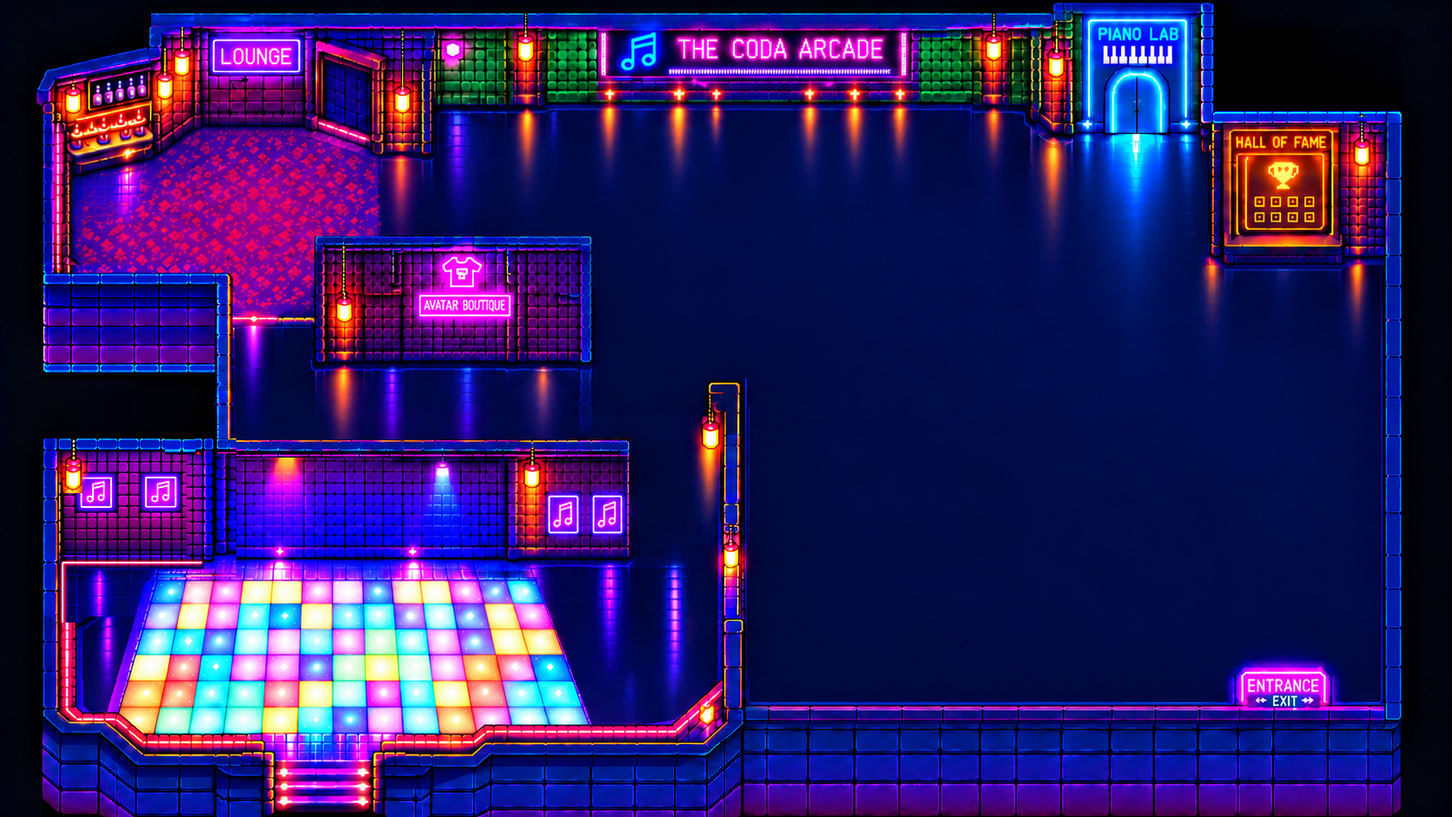
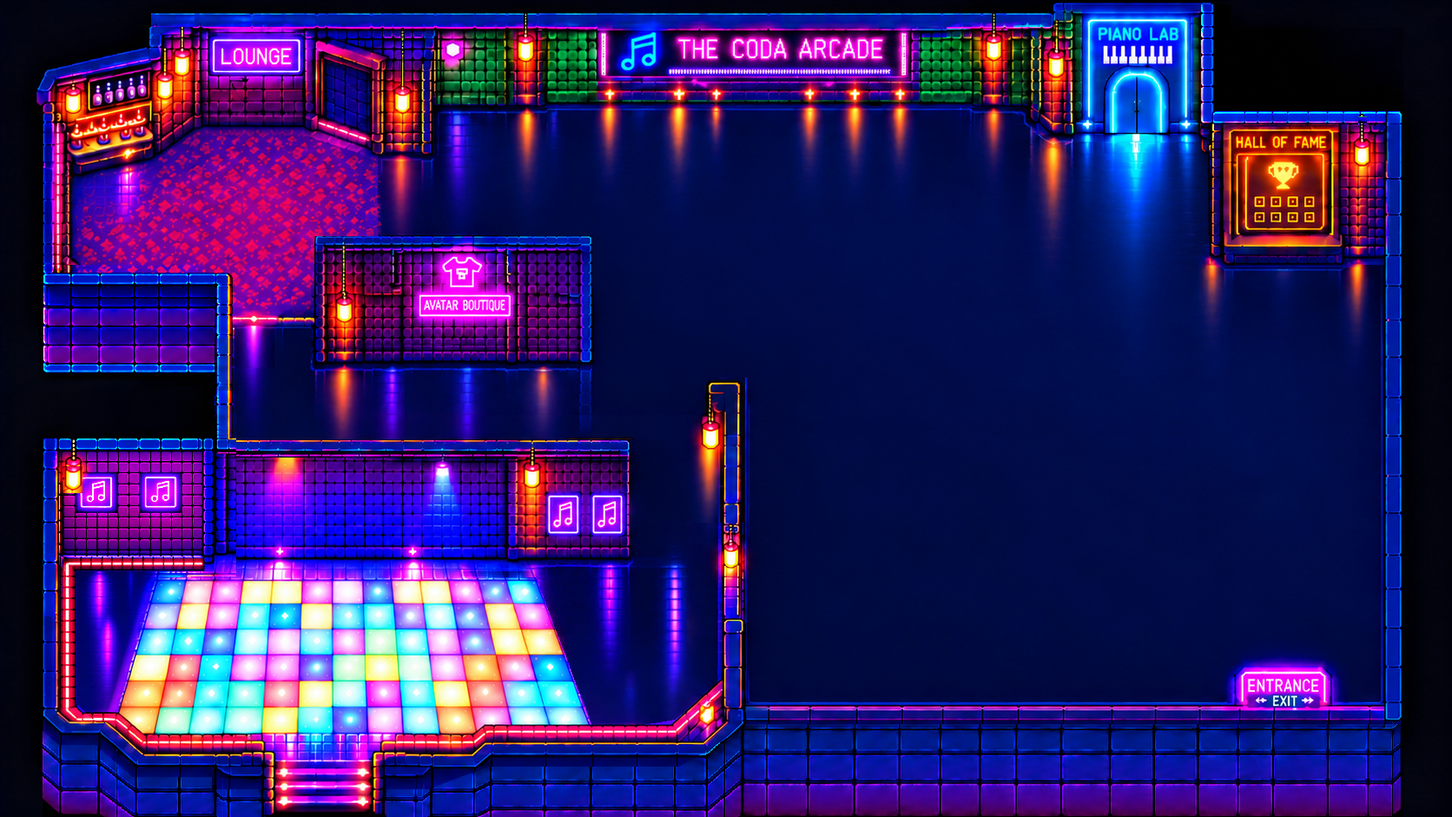
Align northwest wall tiles and match the neon floor border

Changed region(s): [[0.0311, 0.5239, 0.1555, 0.8937]]

diff --git a/world-preview.html b/world-preview.html
@@ -28,7 +28,7 @@
 #assetStudio{position:fixed;left:12px;top:80px;z-index:65;width:min(334px,calc(100vw - 24px));max-height:calc(100dvh - 99px);overflow:auto;background:#171529f5;border:1px solid #eac17d;box-shadow:0 12px 50px #05010de0,0 0 22px #fdac4a24;border-radius:12px;padding:13px;color:#f8efff;font:12px system-ui;backdrop-filter:blur(9px)}
 #assetStudio[hidden]{display:none}#assetStudio .studioHead{display:flex;align-items:center;justify-content:space-between;color:#ffe4a4;font-size:14px;gap:9px;margin-bottom:7px}#assetStudio .studioActions{display:flex;flex-wrap:wrap;gap:5px;margin:7px 0}#assetStudio button{font:inherit;min-height:28px;padding:5px 7px}#assetStudio .studioActions button{flex:1 0 90px}#assetStudio button:disabled{opacity:.36;cursor:not-allowed}#assetStudio hr{border:0;border-top:1px solid #655374;margin:13px 0}#assetStudio .studioField{display:grid;gap:3px;margin:7px 0}#assetStudio .studioField>label{font-weight:650;color:#dccdf3}#assetStudio input:not([type=checkbox]),#assetStudio select{background:#131024;border:1px solid #866e9b;color:#fff;padding:7px;border-radius:5px;width:100%;font:inherit;min-width:0}#assetStudio input[type=checkbox]{accent-color:#f9c880}#assetStudio .studioGrid{display:grid;grid-template-columns:1fr 1fr;gap:8px}#assetStudio .studioTip{color:#c9b9d6;line-height:1.45;font-size:11px;margin:6px 0}#assetStudio #assetList{height:108px;padding:2px}#assetStudio #assetList option{padding:6px}#assetStudio #assetMessage{color:#bbf5e5;min-height:18px;overflow-wrap:anywhere}#assetStudio #assetSelection[hidden]{display:none}#assetStudio .studioCheck{display:inline-flex;align-items:center;gap:6px;margin:5px 11px 5px 0}#assetStudio .studioCollapsible{border:1px solid #655374;border-radius:7px;padding:8px}#assetStudio summary{cursor:pointer;color:#ffe4b1;font-weight:650}#assetToggle{border-color:#eecc7c}#view.asset-editing{cursor:crosshair;touch-action:none}#assetStudio #assetAdd{background:#675022;border-color:#e8b85c}#assetStudio #assetImport{border-color:#80d3ed}#assetStudio #assetExport{border-color:#80d3ed}#assetStudio #assetHelp{background:#271d3c}#assetStudio .studioHot{color:#ffcfa4}body.asset-console-open #layerEditor{display:none!important}@media(max-width:650px){#assetStudio{top:120px;max-height:calc(100dvh - 138px)}}
 /* DJ unlocks */ #panel .jukebox-track-locked{background:#79788612;border-radius:8px;padding:8px}#panel .jukebox-track-locked strong,#panel .jukebox-track-locked small{color:#a6a6b8}#panel .jukebox-track-locked [data-dj-requirement]{color:#e9d29e}
-</style><link rel="stylesheet" href="mobile-controls.css?v=controls-81"><link rel="stylesheet" href="world-mobile.css?v=dialogue-1"><script src="mobile-controls.js?v=joystick-41"></script><script src="finger-follow.js?v=student-29"></script><link rel="stylesheet" href="reward-notifications.css?v=music-30"><script src="reward-notifications.js?v=music-30"></script><link rel="stylesheet" href="developer-console.css?v=rugs-flip-20261031-1"><link rel="stylesheet" href="musician-ui.css?v=dialogue-1"><link rel="stylesheet" href="boutique-ui.css?v=avatar-50"><script src="collision-editor.js?v=mobile-28"></script><script src="world-object-catalog.js?v=floor-61"></script><script src="fishing-entrance.js?v=fishing-31"></script><script src="world-object-runtime.js?v=rugs-flip-20261031-1"></script><script src="world-lighting.js?v=roof-caps-20261031-1"></script><script src="dj-floodlights.js?v=stage-lights-20261031-1"></script><script src="dance-floor.js?v=aligned-dance-20261031-1"></script><script src="floor-stars.js?v=glass-stars-20261031-1"></script><script src="dance-rhythm-engine.js?v=play-97"></script><script src="dance-floor-stage.js?v=dance-95"></script><script src="dj-library.js?v=dj-96"></script><link rel="stylesheet" href="dialogue-editor.css?v=music-30"><script src="dialogue-editor.js?v=music-30"></script><link rel="stylesheet" href="pixel-editor.css?v=pixels-103"><script src="pixel-selection.js?v=smooth-mask-1"></script><script src="layer-selection.js?v=layer-selection-20261030-1"></script><script src="pixel-editor.js?v=smooth-mask-1"></script><script src="world-floor-grid.js?v=flat-75"></script><link rel="stylesheet" href="education-editor.css?v=author-101"><link rel="stylesheet" href="education-visual-editor.css?v=author-101"><script src="education-visual-editor.js?v=author-101"></script><script src="education-editor.js?v=author-101"></script><link rel="stylesheet" href="music-history-editor.css?v=facts-20261029-1"><script src="music-history-editor.js?v=facts-20261029-1"></script><script src="main-counter-palette.js?v=emerald-20261031-1"></script><script src="environment-art.js?v=five-cleanups-20261031-1"></script><script src="world-character-editor.js?v=selected-order-20261030-1"></script><link rel="stylesheet" href="decor-library.css?v=decor-20261030-1"><script src="decor-library.js?v=south-furniture-20261031-1"></script><script src="floor-palette-compat.js?v=glass-fringe-20261031-1"></script><script src="pathway-floor-fill.js?v=boutique-pathway-20261031-1"></script><script src="wall-reflections.js?v=north-walls-20261031-1"></script><script src="developer-console.js?v=reflected-walls-20261031-1"></script><script src="npc-visitors.js?v=visitors-42"></script><script src="npc-behavior.js?v=composers-2"></script><script src="pet-companion.js?v=premium-42"></script><script src="character-renderer.js?v=scholar-1"></script><link rel="stylesheet" href="artwork-editor.css?v=selection-edit-20261030-1"><script src="artwork-editor.js?v=feather-20261030-1"></script><script src="character-artwork-adapter.js?v=pixels-64"></script><script src="world-artwork-tools.js?v=glass-fringe-20261031-1"></script><script src="world-layer-renderer.js?v=rugs-flip-20261031-1"></script><link rel="stylesheet" href="musician-trivia.css?v=music-30"><script src="musician-trivia.js?v=music-30"></script><script src="musician-ui.js?v=dialogue-1"></script><script src="boutique-ui.js?v=classroom-54"></script><link rel="stylesheet" href="notes-shop.css?v=avatar-50"><link rel="stylesheet" href="music-notation.css?v=fishing-31"><script src="music-notation.js?v=fishing-31"></script><link rel="stylesheet" href="education-notation.css?v=education-90"><script src="education-notation.js?v=lessons-93"></script><script src="piano-wall-notation.js?v=learning-48"></script><link rel="stylesheet" href="room-developer-editor.css?v=pixels-64"><script src="room-developer-editor.js?v=rugs-flip-20261031-1"></script><link rel="stylesheet" href="rhythm-fishing.css?v=dialogue-1"><script src="rhythm-fishing-engine.js?v=fishing-47"></script><script src="fishing-progress.js?v=fishing-31"></script><script src="fishing-cave-layout.js?v=cave-32"></script><script src="fishing-cave-effects.js?v=cave-32"></script><script src="fish-shadow-motion.js?v=cave-32"></script><script src="rhythm-beaming.js?v=fishing-34"></script><link rel="stylesheet" href="dance-rhythm-game.css?v=play-97"><script src="dance-rhythm-game.js?v=play-97"></script><script src="dance-floor-world.js?v=play-97"></script><link rel="stylesheet" href="cave-camera.css?v=mobile-36"><script src="cave-camera.js?v=mobile-36"></script><link rel="stylesheet" href="fishing-battle.css?v=fishing-34"><script src="fishing-battle.js?v=mobile-36"></script><script src="fishing-music.js?v=music-42"></script><script src="fishing-boat.js?v=mobile-36"></script><script src="fishing-rhythm-input.js?v=controls-37"></script><link rel="stylesheet" href="fishing-practice.css?v=controls-37"><script src="fishing-practice.js?v=controls-37"></script><script src="rhythm-fishing.js?v=dialogue-1"></script><link rel="stylesheet" href="piano-lab.css?v=dialogue-1"><link rel="stylesheet" href="music-classroom.css?v=learning-48"><script src="notes-shop.js?v=profiles-87"></script><script src="room-fullscreen.js?v=learning-48"></script><script src="piano-melodies.js?v=learning-48"></script><script src="piano-lab.js?v=dialogue-1"></script><link rel="stylesheet" href="classroom-tutorials.css?v=lessons-93"><link rel="stylesheet" href="time-signature-lesson.css?v=lessons-51"><script src="time-signature-lesson.js?v=education-90"></script><link rel="stylesheet" href="classroom-quiz.css?v=learning-48"><script src="classroom-keyboard.js?v=author-101"></script><script src="classroom-quiz-pool.js?v=classroom-97"></script><script src="classroom-quiz.js?v=author-101"></script><script src="final-exam-bank.js?v=exam-86"></script><script src="classroom-curriculum-staff.js?v=keyboard-99"></script><script src="classroom-curriculum-rhythm.js?v=lessons-93"></script><script src="classroom-curriculum-expression.js?v=keyboard-99"></script><script src="classroom-exam-curriculum.js?v=keyboard-99"></script><link rel="stylesheet" href="classroom-exam-study.css?v=lessons-102"><script src="classroom-exam-study.js?v=author-101"></script><script src="classroom-accidentals-lesson.js?v=keyboard-99"></script><script src="classroom-tutorials.js?v=author-101"></script><link rel="stylesheet" href="final-exam.css?v=lessons-93"><script src="classroom-understanding-basics.js?v=classroom-97"></script><script src="classroom-understanding-staff.js?v=classroom-97"></script><script src="classroom-learning-paths-data.js?v=author-101"></script><script src="education-content.js?v=lessons-102"></script><link rel="stylesheet" href="classroom-learning-paths.css?v=lessons-93"><script src="classroom-learning-paths.js?v=author-101"></script><script src="final-exam.js?v=author-101"></script><script src="music-classroom.js?v=dialogue-1"></script><link rel="stylesheet" href="player-progression.css?v=mobile-28"><link rel="stylesheet" href="hall-of-fame.css?v=achievements-89"><link rel="stylesheet" href="arcade-vibes.css?v=vibes-82"><script src="arcade-vibes.js?v=vibes-84"></script><script src="player-progression.js?v=dj-96"></script><script src="achievement-catalog.js?v=dj-96"></script><link rel="stylesheet" href="player-profile.css?v=student-29"><script src="player-profile.js?v=quests-82"></script><script src="hall-of-fame.js?v=achievements-89"></script><script src="musician-missions.js?v=quests-82"></script><script src="song-machine/sound-library.js?v=mobile-28"></script><link rel="stylesheet" href="play-notebook.css?v=play-97"><script src="changelog-data.js?v=console-fullscreen-20261029-1"></script><script src="play-notebook.js?v=play-97"></script><header><b>♫ CODA ARCADE · CONNECTED WORLD / WORLD BUILDER</b><span><a href="classic-arcade.html">← Original arcade</a> &nbsp; <button id="levelBtn" type="button" aria-label="Your profile">Profile · Level 1</button> <button id="hallFameBtn" type="button">Hall of Fame</button> <button id="notesBtn" type="button" aria-label="Open Notes shop">♫ 150 Notes</button> <button id="pianoLabBtn" type="button">Piano Lab</button> <button id="classroomBtn" type="button">Classroom</button> <button id="fishingBtn" type="button">Rhythm Fishing</button> <button id="accountBtn">◉ Guest</button> <button id="jukeboxBtn">♫ Jukebox</button> <button id="assetToggle" type="button" title="Open Asset Studio (Shift+A)">✥ Assets</button> <button id="editorToggle" type="button" title="Edit pixel foreground layers (Shift+L)">✎ Layers</button> <button id="musicBtn" type="button" aria-pressed="false" title="Play or stop optional original arcade groove">♫ Music: Off</button> <button id="fxBtn" type="button" title="Choose full, lite or off visual effects">✧ FX: Full</button> <span id="cameraTools" role="group" aria-label="Camera zoom controls"><button type="button" id="zoomOut" title="Zoom out (−)" aria-label="Zoom out">−</button><button type="button" id="zoomReset" title="Reset camera zoom (0)" aria-label="Reset zoom to 100%">100%</button><button type="button" id="zoomIn" title="Zoom in (+)" aria-label="Zoom in">+</button></span> <button id="fs">⛶ Fullscreen</button></span></header><main id="worldStage" aria-label="Arcade world"><canvas id="view" width="1672" height="941" tabindex="0" aria-label="Connected arcade. Move with WASD or arrow keys. Press Space to jump and E to interact."></canvas></main><footer><span>WASD / arrows · Walk · Space · Jump · Wheel / + / − Zoom · 0 Reset · F2 Developer console · C Edit collision · Shift+L Edit layers · Right-drag to pan in editor &nbsp; E · Interact &nbsp; Q · Emote · P · Play notes · Click to walk · Touch and drag to steer</span><span id="status">Phase 11 · asset studio · animations · layers · C collision · L layers</span></footer><aside id="layerEditor" hidden aria-label="Foreground layer painting editor">
+</style><link rel="stylesheet" href="mobile-controls.css?v=controls-81"><link rel="stylesheet" href="world-mobile.css?v=dialogue-1"><script src="mobile-controls.js?v=joystick-41"></script><script src="finger-follow.js?v=student-29"></script><link rel="stylesheet" href="reward-notifications.css?v=music-30"><script src="reward-notifications.js?v=music-30"></script><link rel="stylesheet" href="developer-console.css?v=rugs-flip-20261031-1"><link rel="stylesheet" href="musician-ui.css?v=dialogue-1"><link rel="stylesheet" href="boutique-ui.css?v=avatar-50"><script src="collision-editor.js?v=mobile-28"></script><script src="world-object-catalog.js?v=floor-61"></script><script src="fishing-entrance.js?v=fishing-31"></script><script src="world-object-runtime.js?v=rugs-flip-20261031-1"></script><script src="world-lighting.js?v=roof-caps-20261031-1"></script><script src="dj-floodlights.js?v=stage-lights-20261031-1"></script><script src="dance-floor.js?v=aligned-dance-20261031-1"></script><script src="floor-stars.js?v=glass-stars-20261031-1"></script><script src="dance-rhythm-engine.js?v=play-97"></script><script src="dance-floor-stage.js?v=dance-95"></script><script src="dj-library.js?v=dj-96"></script><link rel="stylesheet" href="dialogue-editor.css?v=music-30"><script src="dialogue-editor.js?v=music-30"></script><link rel="stylesheet" href="pixel-editor.css?v=pixels-103"><script src="pixel-selection.js?v=smooth-mask-1"></script><script src="layer-selection.js?v=layer-selection-20261030-1"></script><script src="pixel-editor.js?v=smooth-mask-1"></script><script src="world-floor-grid.js?v=flat-75"></script><link rel="stylesheet" href="education-editor.css?v=author-101"><link rel="stylesheet" href="education-visual-editor.css?v=author-101"><script src="education-visual-editor.js?v=author-101"></script><script src="education-editor.js?v=author-101"></script><link rel="stylesheet" href="music-history-editor.css?v=facts-20261029-1"><script src="music-history-editor.js?v=facts-20261029-1"></script><script src="main-counter-palette.js?v=emerald-20261031-1"></script><script src="environment-art.js?v=NWfinish20261031-1"></script><script src="world-character-editor.js?v=selected-order-20261030-1"></script><link rel="stylesheet" href="decor-library.css?v=decor-20261030-1"><script src="decor-library.js?v=south-furniture-20261031-1"></script><script src="floor-palette-compat.js?v=glass-fringe-20261031-1"></script><script src="pathway-floor-fill.js?v=boutique-pathway-20261031-1"></script><script src="wall-reflections.js?v=NWfinish20261031-1"></script><script src="developer-console.js?v=reflected-walls-20261031-1"></script><script src="npc-visitors.js?v=visitors-42"></script><script src="npc-behavior.js?v=composers-2"></script><script src="pet-companion.js?v=premium-42"></script><script src="character-renderer.js?v=scholar-1"></script><link rel="stylesheet" href="artwork-editor.css?v=selection-edit-20261030-1"><script src="artwork-editor.js?v=feather-20261030-1"></script><script src="character-artwork-adapter.js?v=pixels-64"></script><script src="world-artwork-tools.js?v=glass-fringe-20261031-1"></script><script src="world-layer-renderer.js?v=rugs-flip-20261031-1"></script><link rel="stylesheet" href="musician-trivia.css?v=music-30"><script src="musician-trivia.js?v=music-30"></script><script src="musician-ui.js?v=dialogue-1"></script><script src="boutique-ui.js?v=classroom-54"></script><link rel="stylesheet" href="notes-shop.css?v=avatar-50"><link rel="stylesheet" href="music-notation.css?v=fishing-31"><script src="music-notation.js?v=fishing-31"></script><link rel="stylesheet" href="education-notation.css?v=education-90"><script src="education-notation.js?v=lessons-93"></script><script src="piano-wall-notation.js?v=learning-48"></script><link rel="stylesheet" href="room-developer-editor.css?v=pixels-64"><script src="room-developer-editor.js?v=rugs-flip-20261031-1"></script><link rel="stylesheet" href="rhythm-fishing.css?v=dialogue-1"><script src="rhythm-fishing-engine.js?v=fishing-47"></script><script src="fishing-progress.js?v=fishing-31"></script><script src="fishing-cave-layout.js?v=cave-32"></script><script src="fishing-cave-effects.js?v=cave-32"></script><script src="fish-shadow-motion.js?v=cave-32"></script><script src="rhythm-beaming.js?v=fishing-34"></script><link rel="stylesheet" href="dance-rhythm-game.css?v=play-97"><script src="dance-rhythm-game.js?v=play-97"></script><script src="dance-floor-world.js?v=play-97"></script><link rel="stylesheet" href="cave-camera.css?v=mobile-36"><script src="cave-camera.js?v=mobile-36"></script><link rel="stylesheet" href="fishing-battle.css?v=fishing-34"><script src="fishing-battle.js?v=mobile-36"></script><script src="fishing-music.js?v=music-42"></script><script src="fishing-boat.js?v=mobile-36"></script><script src="fishing-rhythm-input.js?v=controls-37"></script><link rel="stylesheet" href="fishing-practice.css?v=controls-37"><script src="fishing-practice.js?v=controls-37"></script><script src="rhythm-fishing.js?v=dialogue-1"></script><link rel="stylesheet" href="piano-lab.css?v=dialogue-1"><link rel="stylesheet" href="music-classroom.css?v=learning-48"><script src="notes-shop.js?v=profiles-87"></script><script src="room-fullscreen.js?v=learning-48"></script><script src="piano-melodies.js?v=learning-48"></script><script src="piano-lab.js?v=dialogue-1"></script><link rel="stylesheet" href="classroom-tutorials.css?v=lessons-93"><link rel="stylesheet" href="time-signature-lesson.css?v=lessons-51"><script src="time-signature-lesson.js?v=education-90"></script><link rel="stylesheet" href="classroom-quiz.css?v=learning-48"><script src="classroom-keyboard.js?v=author-101"></script><script src="classroom-quiz-pool.js?v=classroom-97"></script><script src="classroom-quiz.js?v=author-101"></script><script src="final-exam-bank.js?v=exam-86"></script><script src="classroom-curriculum-staff.js?v=keyboard-99"></script><script src="classroom-curriculum-rhythm.js?v=lessons-93"></script><script src="classroom-curriculum-expression.js?v=keyboard-99"></script><script src="classroom-exam-curriculum.js?v=keyboard-99"></script><link rel="stylesheet" href="classroom-exam-study.css?v=lessons-102"><script src="classroom-exam-study.js?v=author-101"></script><script src="classroom-accidentals-lesson.js?v=keyboard-99"></script><script src="classroom-tutorials.js?v=author-101"></script><link rel="stylesheet" href="final-exam.css?v=lessons-93"><script src="classroom-understanding-basics.js?v=classroom-97"></script><script src="classroom-understanding-staff.js?v=classroom-97"></script><script src="classroom-learning-paths-data.js?v=author-101"></script><script src="education-content.js?v=lessons-102"></script><link rel="stylesheet" href="classroom-learning-paths.css?v=lessons-93"><script src="classroom-learning-paths.js?v=author-101"></script><script src="final-exam.js?v=author-101"></script><script src="music-classroom.js?v=dialogue-1"></script><link rel="stylesheet" href="player-progression.css?v=mobile-28"><link rel="stylesheet" href="hall-of-fame.css?v=achievements-89"><link rel="stylesheet" href="arcade-vibes.css?v=vibes-82"><script src="arcade-vibes.js?v=vibes-84"></script><script src="player-progression.js?v=dj-96"></script><script src="achievement-catalog.js?v=dj-96"></script><link rel="stylesheet" href="player-profile.css?v=student-29"><script src="player-profile.js?v=quests-82"></script><script src="hall-of-fame.js?v=achievements-89"></script><script src="musician-missions.js?v=quests-82"></script><script src="song-machine/sound-library.js?v=mobile-28"></script><link rel="stylesheet" href="play-notebook.css?v=play-97"><script src="changelog-data.js?v=console-fullscreen-20261029-1"></script><script src="play-notebook.js?v=play-97"></script><header><b>♫ CODA ARCADE · CONNECTED WORLD / WORLD BUILDER</b><span><a href="classic-arcade.html">← Original arcade</a> &nbsp; <button id="levelBtn" type="button" aria-label="Your profile">Profile · Level 1</button> <button id="hallFameBtn" type="button">Hall of Fame</button> <button id="notesBtn" type="button" aria-label="Open Notes shop">♫ 150 Notes</button> <button id="pianoLabBtn" type="button">Piano Lab</button> <button id="classroomBtn" type="button">Classroom</button> <button id="fishingBtn" type="button">Rhythm Fishing</button> <button id="accountBtn">◉ Guest</button> <button id="jukeboxBtn">♫ Jukebox</button> <button id="assetToggle" type="button" title="Open Asset Studio (Shift+A)">✥ Assets</button> <button id="editorToggle" type="button" title="Edit pixel foreground layers (Shift+L)">✎ Layers</button> <button id="musicBtn" type="button" aria-pressed="false" title="Play or stop optional original arcade groove">♫ Music: Off</button> <button id="fxBtn" type="button" title="Choose full, lite or off visual effects">✧ FX: Full</button> <span id="cameraTools" role="group" aria-label="Camera zoom controls"><button type="button" id="zoomOut" title="Zoom out (−)" aria-label="Zoom out">−</button><button type="button" id="zoomReset" title="Reset camera zoom (0)" aria-label="Reset zoom to 100%">100%</button><button type="button" id="zoomIn" title="Zoom in (+)" aria-label="Zoom in">+</button></span> <button id="fs">⛶ Fullscreen</button></span></header><main id="worldStage" aria-label="Arcade world"><canvas id="view" width="1672" height="941" tabindex="0" aria-label="Connected arcade. Move with WASD or arrow keys. Press Space to jump and E to interact."></canvas></main><footer><span>WASD / arrows · Walk · Space · Jump · Wheel / + / − Zoom · 0 Reset · F2 Developer console · C Edit collision · Shift+L Edit layers · Right-drag to pan in editor &nbsp; E · Interact &nbsp; Q · Emote · P · Play notes · Click to walk · Touch and drag to steer</span><span id="status">Phase 11 · asset studio · animations · layers · C collision · L layers</span></footer><aside id="layerEditor" hidden aria-label="Foreground layer painting editor">
   <div class="editorbanner"><b>✎ FOREGROUND EDITOR</b><button id="editClose" type="button">✕</button></div>
   <div class="mini">Paint with pixels from the existing arcade artwork. Erase removes unwanted foreground coverage; the floor stays unchanged.</div>
   <div class="editorline"><button type="button" id="editPaint" class="current">🖌 Paint</button><button type="button" id="editErase">⌫ Erase</button></div>

diff --git a/wall-reflections.js b/wall-reflections.js
@@ -8,12 +8,14 @@
   [[435,179],[681,179],[681,424],[435,424]],
   [[269,426],[727,426],[727,506],[269,506]],
   [[269,375],[358,375],[358,426],[269,426]],
-  [[77,649],[247,649],[247,710],[77,710]],
+  [[87,659],[247,659],[247,665],[185,665],[185,839],[119,839],[87,810]],
   [[724,507],[807,507],[807,806],[777,829],[728,837],[119,837],[96,812],[94,690],[174,658],[617,658],[617,649],[724,649]]
  ].map(p=>Object.freeze(p.map(Object.freeze))));
  const PROTECTED=Object.freeze([
   [[359,274],[681,274],[681,425],[359,425]],
   [[236,507],[725,507],[725,649],[236,649]],
+  [[69,641],[247,641],[247,659],[69,659]],
+  [[69,649],[87,649],[87,815],[69,815]],
   [[169,665],[204,665],[237,664],[271,664],[305,664],[339,664],[374,664],[408,664],[442,664],[477,664],[511,664],[545,664],[579,665],[618,665],[628,693],[639,723],[651,753],[662,784],[674,814],[685,845],[117,845],[125,814],[134,784],[143,753],[152,723],[161,693]],
   [[1419,811],[1419,783],[1427,773],[1435,767],[1517,767],[1528,776],[1535,785],[1535,812]],
   [[808,435],[860,435],[860,818],[808,818]]

diff --git a/environment-art.js b/environment-art.js
@@ -78,7 +78,7 @@
      finish();
     }catch(error){finish(Error('Environment artwork could not decode: '+file+'. '+(error.message||'')));}
    }
-   image.addEventListener('load',onload);image.addEventListener('error',onerror);image.src=baseUrl+file+(file===BACKGROUND?'?v=five-cleanups-20261031-1':file==='main-counter.png'?'?v=north-walls-20261031-1':'');
+   image.addEventListener('load',onload);image.addEventListener('error',onerror);image.src=baseUrl+file+(file===BACKGROUND?'?v=NWfinish20261031-1':file==='main-counter.png'?'?v=north-walls-20261031-1':'');
    if(image.complete&&image.naturalWidth)onload();
   }));
   const ready=Promise.all(tasks).then(()=>{loaded=true;});

diff --git a/tests/boutique-join-browser.py b/tests/boutique-join-browser.py
@@ -25,12 +25,13 @@ class BoutiqueJoinTests(unittest.TestCase):
             'hall-roof-cap-regions.json','lounge-club-roof-regions.json',
             'dance-northwest-south-wall-regions.json','arcade-north-straight-cap-regions.json',
             'five-northwest-cleanup-regions.json','front-wall-depth-regions.json',
-            'sign-green-completion-regions.json','hall-floor-repair-regions.json']]
+            'sign-green-completion-regions.json','hall-floor-repair-regions.json',
+            'dance-northwest-finish-regions.json']]
         self.load()
         result=self.page.evaluate('''async layers=>{
           const load=src=>new Promise((resolve,reject)=>{const image=new Image();image.onload=()=>resolve(image);image.onerror=reject;image.src=src;});
           const [native,...sources]=await Promise.all([load(layers[0].output),...layers.map(meta=>load(meta.source))]),[w,h]=layers[0].worldSize;
-          const featherSources=await Promise.all(layers.map(meta=>meta.floorFeather&&meta.before?load(meta.before):null));
+          const featherSources=await Promise.all(layers.map(meta=>(meta.floorFeather||meta.tileEdgeFeather)&&meta.before?load(meta.before):null));
           const canvas=()=>{const c=document.createElement('canvas');c.width=w;c.height=h;return c;};
           const a=canvas(),c=canvas();a.getContext('2d').drawImage(native,0,0);__paletteConsole.renderBase(c.getContext('2d'));
           const aa=a.getContext('2d').getImageData(0,0,w,h).data,cc=c.getContext('2d').getImageData(0,0,w,h).data;
@@ -39,13 +40,28 @@ class BoutiqueJoinTests(unittest.TestCase):
             if(meta.sourceRect)g.drawImage(source,...meta.sourceRect,...placement);else g.drawImage(source,...placement);
             for(const region of meta.sourceCopies||[])g.drawImage(c,...region);
             const data=g.getImageData(0,0,w,h).data;
-            if(meta.floorFeather){
+            if(meta.floorFeather||meta.tileEdgeFeather){
               if(!featherSources[index])throw Error('A reviewed feather needs its immutable reference artwork');
               const reference=canvas(),rg=reference.getContext('2d');rg.drawImage(featherSources[index],0,0);
-              const before=rg.getImageData(0,0,w,h).data,{right:[r0,r1],bottom:[b0,b1],leftBelow:[l0,l1,below]}=meta.floorFeather;
+              const before=rg.getImageData(0,0,w,h).data;
               for(let y=0;y<h;y++)for(let x=0;x<w;x++){
-                let weight=Math.max(0,Math.min(1,(r1-x-.5)/(r1-r0),(b1-y-.5)/(b1-b0)));
-                if(y>=below)weight=Math.max(0,Math.min(weight,(x+.5-l0)/(l1-l0)));
+                let weight=1;
+                if(meta.floorFeather){
+                  const {right:[r0,r1],bottom:[b0,b1],leftBelow:[l0,l1,below]}=meta.floorFeather;
+                  weight=Math.max(0,Math.min(weight,(r1-x-.5)/(r1-r0),(b1-y-.5)/(b1-b0)));
+                  if(y>=below)weight=Math.max(0,Math.min(weight,(x+.5-l0)/(l1-l0)));
+                }
+                if(meta.tileEdgeFeather){
+                  // The reviewed edge is defined per integer image row; only
+                  // the horizontal ramp uses the pixel center.
+                  const {points,width}=meta.tileEdgeFeather,cy=y;
+                  if(cy>=points[0][1]&&cy<=points.at(-1)[1]){
+                    for(let i=1;i<points.length;i++)if(cy<=points[i][1]){
+                      const [ax,ay]=points[i-1],[bx,by]=points[i],edge=ax+(bx-ax)*(cy-ay)/(by-ay);
+                      weight=Math.max(0,Math.min(weight,(edge+width-(x+.5))/width));break;
+                    }
+                  }
+                }
                 const at=(y*w+x)*4;for(let channel=0;channel<4;channel++)data[at+channel]=Math.round(before[at+channel]*(1-weight)+data[at+channel]*weight);
               }
             }

diff --git a/tests/wall-reflections-browser.py b/tests/wall-reflections-browser.py
@@ -97,14 +97,15 @@ class WallReflectionTests(unittest.TestCase):
  const before=source.toDataURL(),output=document.createElement('canvas');output.width=1672;output.height=941;const g=output.getContext('2d');let quality='full';
  const api=CodaWallReflections.create({document,getQuality:()=>quality});
  api.draw(g,source);const first=api.getState(),pixels=g.getImageData(0,0,1672,941).data;
- const regions={north:[500,128,692,200],hall:[1380,309,211,170],boutique:[359,427,322,79],dance:[725,650,82,150],northwest:[77,649,170,61]},counts={};
+ const regions={north:[500,128,692,200],hall:[1380,309,211,170],boutique:[359,427,322,79],dance:[725,650,82,150],northwest:[87,659,160,180]},counts={};
  for(const [name,[x,y,w,h]]of Object.entries(regions)){let count=0;for(let yy=y;yy<y+h;yy++)for(let xx=x;xx<x+w;xx++)if(pixels[(yy*1672+xx)*4+3]>0)count++;counts[name]=count;}
  let outside=0,colored=0;for(let y=0;y<941;y++)for(let x=0;x<1672;x++){const at=(y*1672+x)*4;if(!pixels[at+3])continue;if(!CodaWallReflections.isGlassFloor(x+.5,y+.5))outside++;if(Math.max(...pixels.slice(at,at+3))-Math.min(...pixels.slice(at,at+3))>30)colored++;}
  const alpha=(x,y)=>g.getImageData(x,y,1,1).data[3],full=alpha(820,180);
  g.clearRect(0,0,1672,941);quality='lite';api.draw(g,source);const lite=alpha(820,180),second=api.getState();
  g.clearRect(0,0,1672,941);quality='off';const off=api.draw(g,source),offPixels=g.getImageData(0,0,1672,941).data.some(v=>v!==0);
- const protectedPoints=[[70,665],[64,690],[100,620],[170,700]].map(([x,y])=>({x,y,alpha:pixels[(y*1672+x)*4+3]}));
- return {first,second,counts,outside,colored,protectedPoints,sourceUnchanged:before===source.toDataURL(),full,lite,off,offPixels};
+ const protectedPoints=[[70,665],[64,690],[100,620],[170,700],[85,650],[85,665],[85,705],[85,800],[200,650],[246,658]].map(([x,y])=>({x,y,alpha:pixels[(y*1672+x)*4+3]}));
+ const westGlass={x:90,y:730,glass:CodaWallReflections.isGlassFloor(90,730),alpha:pixels[(730*1672+90)*4+3]};
+ return {first,second,counts,outside,colored,protectedPoints,westGlass,sourceUnchanged:before===source.toDataURL(),full,lite,off,offPixels};
 }''')
                 self.assertTrue(actual['sourceUnchanged'])
                 self.assertIsNone(actual['first']['error'])
@@ -114,6 +115,8 @@ class WallReflectionTests(unittest.TestCase):
                 self.assertGreater(actual['colored'],1000)
                 for region,count in actual['counts'].items():self.assertGreater(count,300,region)
                 for point in actual['protectedPoints']:self.assertEqual(point['alpha'],0,point)
+                self.assertTrue(actual['westGlass']['glass'],actual['westGlass'])
+                self.assertGreater(actual['westGlass']['alpha'],0,'Reflections reach the glass below the west rail')
                 self.assertGreater(actual['full'],actual['lite'])
                 self.assertFalse(actual['off'])
                 self.assertFalse(actual['offPixels'])

diff --git a/ENVIRONMENT-ART.md b/ENVIRONMENT-ART.md
@@ -238,7 +238,7 @@ This build does not modify the backdrop, project data or original sprites.
 
 ## Room finishing repairs
 
-The last four passes in `build-cosmic-floor.cjs` own only reviewed native-art
+The finishing passes in `build-cosmic-floor.cjs` own only reviewed native-art
 regions: the obsolete wall band above the dance-room inner cap and its neon
 corner, deeper front exterior courses, the exposed masonry beside the Coda
 sign, and continuous glass beside Hall of Fame. The removed upper dance lamp
@@ -250,3 +250,12 @@ remains 1672×941, with furniture, collisions, and saved-project data unchanged.
 The Hall floor uses an immutable sparse before-image to feather its outer
 edges without accumulating changes on repeated builds. Source dimensions and
 placements are recorded in the four `*-regions.json` files.
+
+The final `build-dance-northwest-finish.cjs` pass replaces the northwest wall
+face and adjoining glass lane together so their tile grids and reflections
+cannot meet at the former y710 seam. Its source copies normalize the upper
+neon to the width and centerline of the retained lower border. The existing
+lamp, colored tile interiors, outside posts, and southwest turn are protected.
+An eight-pixel feather replaces the old blue fringe along the diagonal tile
+edge, blending into an immutable sparse before-image. Reflection clips follow
+the repaired glass and exclude both lengths of the thick neon border.
